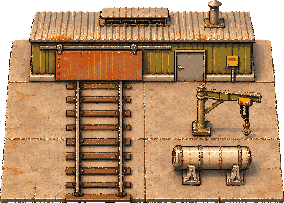
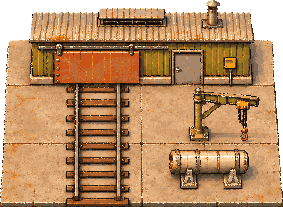
E0: пробная сборка: цех по попытке 5

diff --git a/game/src/render/manifest.js b/game/src/render/manifest.js
@@ -400,7 +400,7 @@ export const BUILDING_ANCHORS = {
   },
   factory: {
     zone: 'industrial_east', anchors: [[920, 255]], size: [190, 145], footprint: [171, 34],
-    e0: { anchors: [[920, 255]], size: [70, 50], footprint: [68, 42] },
+    e0: { anchors: [[920, 255]], size: [70, 51], footprint: [68, 43] },
   },
   weather: {
     zone: 'command_north', anchors: [[1000, 350]], size: [140, 171], footprint: [100, 28],
